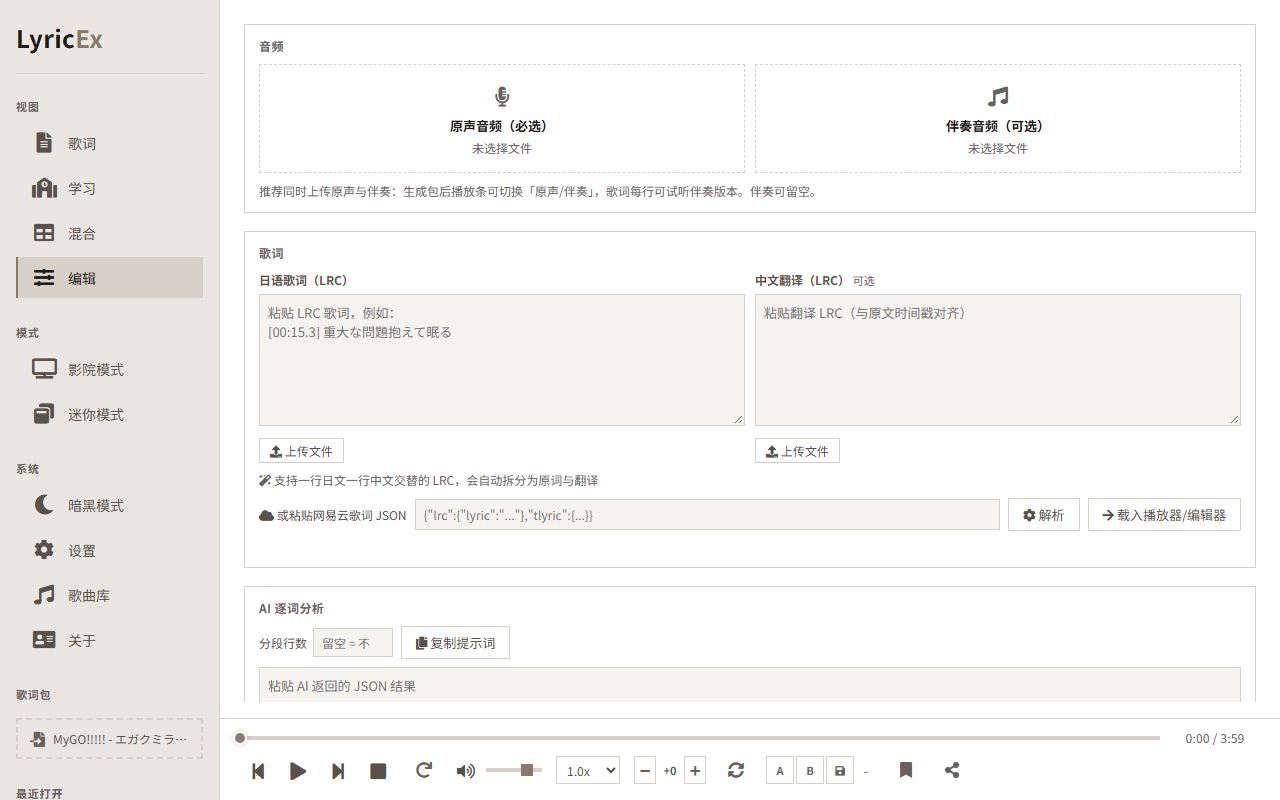
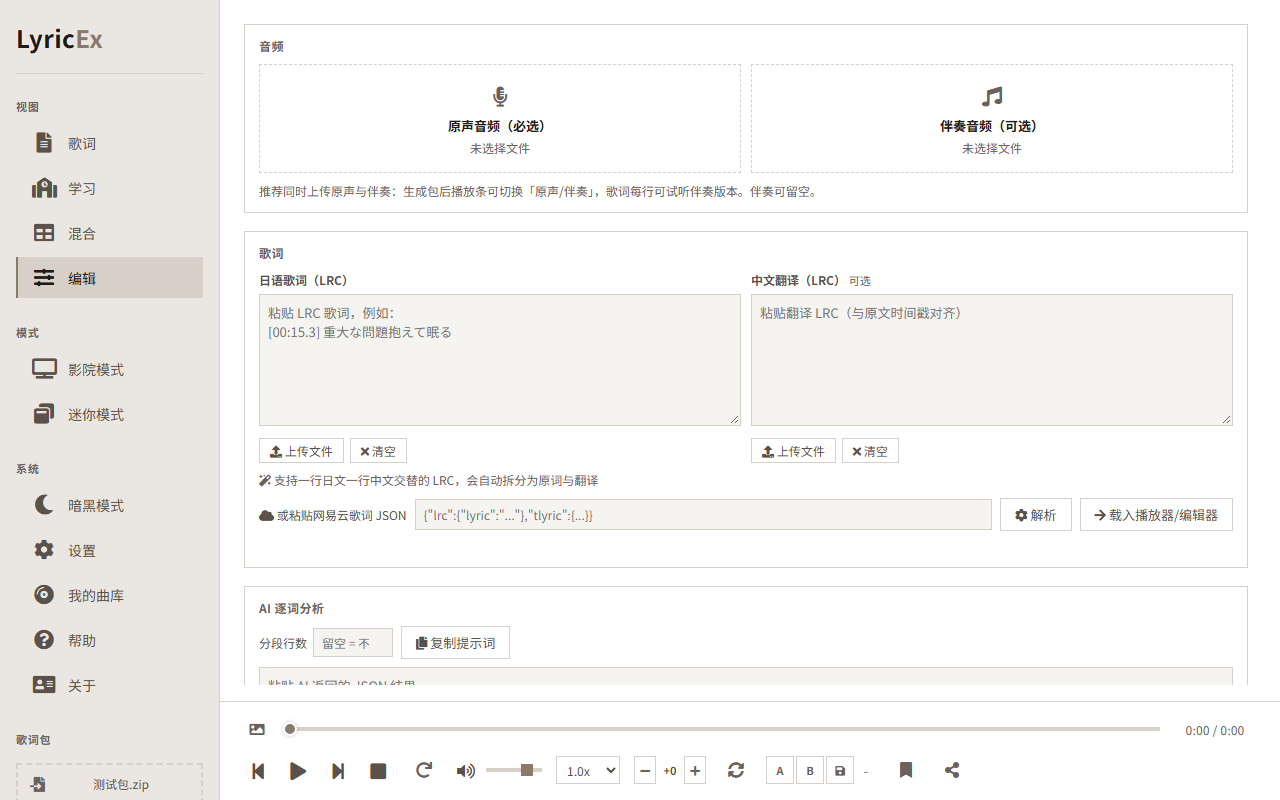
v3.0.0-alpha: finalize — version bump, changelog sync, help 'Song library' chapter (zh/ja/en), README x3 + library screenshot, FORMAT.md library-manifest contract, release-check pre-release suffix support

diff --git a/assets/scripts/help-content.js b/assets/scripts/help-content.js
@@ -17,7 +17,8 @@
     root.__lyricexHelpContent = {
         zh: {
             native: '简体中文',
-            titles: { quick: '快速上手', netease: '网易云歌词 JSON 获取', demo: '演示', faq: '常见问题', contribute: '提交问题与贡献', feedback: '反馈与支持' },
+            titles: { quick: '快速上手', library: '歌曲库', netease: '网易云歌词 JSON 获取', demo: '演示', faq: '常见问题', contribute: '提交问题与贡献', feedback: '反馈与支持' },
+            library: '<p>「歌曲库」是独立的本地曲库视图（侧边栏「我的曲库」），数据存于浏览器 IndexedDB，不上传。</p><h4>导入</h4><ol><li>点「添加文件夹」选择存放歌词包/音频的文件夹（支持 zip 歌词包与 mp3 / flac / m4a / ogg / wav）；</li><li>自动读取元数据：zip 包读 manifest / 旧 song.json / LRC，裸音频读 ID3 标签与封面；</li><li>重复导入自动跳过（按文件路径 + 大小、歌名 + 歌手去重）。</li></ol><h4>浏览与查找</h4><p>搜索框全文匹配（歌名 / 歌手 / 专辑 / 歌词）；「全部歌手 / 专辑 / 流派 / 年份 / 标签」下拉筛选；按歌名 / 歌手 / 时长 / 添加时间 / 播放次数排序；歌手、专辑 tab 聚合浏览。</p><h4>组织与收藏</h4><p>行内星标收藏；歌单 tab 新建 / 重命名 / 删除，行内「加入歌单」；最近播放与播放次数自动记录。</p><h4>播放</h4><p>点行内播放走主播放器：有歌词自动进歌词视图并卡拉 OK 高亮，无歌词仅播放音频。点「详情」查看元数据与歌词预览；「编辑」可改歌名 / 歌手 / 专辑 / 流派 / 年份 / 曲目 / 标签。</p><p class="help-tip">「示例包」按钮打开 GitHub 示例包弹窗（仅供学习交流，不支持添加）；自定义曲库请用「添加文件夹」导入自己存放的包。</p>',
             quick: '<ol><li><b>上传</b>：把 <code>.zip</code> 歌词包或 <code>.lrc</code> 拖到左侧「歌词包」区，或点「上传 .zip / .lrc」选择文件；也可从「歌曲库」加载示例包（仅供学习交流）。</li><li><b>建包</b>：编辑 → 制包 → 上传原声（必选）/ 伴奏（可选）→ 粘贴或上传 LRC（日文/中文交替自动拆分为原词+翻译）→ 可选粘贴网易云歌词 JSON 补翻译与逐字时间 → 可选 AI 逐词分析 → 导出包。</li><li><b>练唱</b>：歌词视图跟唱（逐字卡拉OK高亮、当前行下可显示翻译/罗马音副行），学习视图逐词表，混合视图两者同屏。</li><li><b>导出</b>：学习笔记（MD/HTML）、竖版海报、分享卡片、歌词视频（Chrome/Edge）、字幕（SRT/ASS）。</li></ol>',
             netease: '<p>制包页支持直接粘贴网易云歌词 JSON（含原词、翻译、逐字）。获取方法（详见 <code>docs/netease-lyrics-guide.md</code>）：</p><dl><dt>方法一 · 浏览器抓包（最稳）</dt><dd>打开网易云网页版歌曲页 → F12 → Network → 过滤 <code>lyric</code> → 点开 <code>song/lyric</code> 请求 → 复制响应 JSON。</dd><dt>方法二 · 命令行</dt><dd>接口 <code>https://music.163.com/api/song/lyric?id=&lt;歌曲ID&gt;&amp;lv=-1&amp;kv=-1&amp;tv=-1</code>，<b>必须</b>带 <code>User-Agent</code> 与 <code>Referer: https://music.163.com/</code>，否则返回 400。<br>curl：<code>curl.exe -H "User-Agent: Mozilla/5.0 …" -H "Referer: https://music.163.com/" "接口URL"</code><br>PowerShell：<code>Invoke-RestMethod -Headers @{ "User-Agent"="Mozilla/5.0 …"; "Referer"="https://music.163.com/" } -Uri "接口URL"</code></dd><dt>返回字段</dt><dd><code>lrc.lyric</code> 原词（标准/增强内联）、<code>tlyric.lyric</code> 翻译、<code>klyric.lyric</code> 逐字（YRC 语法，LyricEx 已支持导入并用于卡拉OK高亮）、部分歌曲新接口含 <code>yrc</code>。</dd></dl><p class="help-tip">把整个 JSON 粘到制包页「或粘贴网易云歌词JSON」框点解析即可：翻译自动配对，klyric 逐字时间自动附加到对应行。</p>',
             demo: '',
@@ -27,7 +28,8 @@
         },
         ja: {
             native: '日本語',
-            titles: { quick: 'クイックスタート', netease: 'NetEase 歌詞 JSON を取得', demo: 'デモ', faq: 'よくある質問', contribute: '問題報告と貢献', feedback: 'フィードバックとサポート' },
+            titles: { quick: 'クイックスタート', library: '曲ライブラリ', netease: 'NetEase 歌詞 JSON を取得', demo: 'デモ', faq: 'よくある質問', contribute: '問題報告と貢献', feedback: 'フィードバックとサポート' },
+            library: '<p>「曲ライブラリ」はローカルの曲ライブラリビュー（サイドバー「マイライブラリ」）。データはブラウザの IndexedDB に保存され、アップロードされません。</p><h4>インポート</h4><ol><li>「フォルダを追加」で歌詞パック / 音声を置いたフォルダを選択（zip 歌詞パックと mp3 / flac / m4a / ogg / wav）；</li><li>メタデータ自動読取：zip は manifest / 旧 song.json / LRC、裸音声は ID3 タグとカバー；</li><li>重複インポートは自動スキップ（ファイルパス + サイズ、曲名 + 歌手で重複判定）。</li></ol><h4>ブラウズと検索</h4><p>検索ボックスは全文一致（曲名 / 歌手 / 歌詞）；「すべてのアーティスト / アルバム / ジャンル / 年 / タグ」で絞り込み；曲名 / アーティスト / 再生時間 / 追加日 / 再生回数でソート；アーティスト・アルバムタブで集約表示。</p><h4>整理とお気に入り</h4><p>行のスターでお気に入り登録；プレイリストタブで作成 / リネーム / 削除、行内「プレイリストに追加」；最近再生と再生回数を自動記録。</p><h4>再生</h4><p>行の再生ボタンでメインプレイヤーへ：歌詞があれば自動で歌詞ビュー（カラオケハイライト）、なければ音声のみ。「詳細」でメタデータと歌詞プレビュー、「編集」で曲名 / アーティスト / アルバム / ジャンル / 年 / トラック / タグを変更。</p><p class="help-tip">「サンプルパック」ボタンは GitHub サンプルパック一覧（学習用のみ・追加不可）。自作ライブラリは「フォルダを追加」から。</p>',
             quick: '<ol><li><b>アップロード</b>：<code>.zip</code> 歌詞パックまたは <code>.lrc</code> を左側の「歌詞パック」エリアへドラッグ、または「.zip / .lrc をアップロード」でファイルを選択。「曲ライブラリ」からサンプルパックを読み込むこともできます（学習・デモ用のみ）。</li><li><b>パック作成</b>：エディター → ビルドタブ → ボーカル（必須）/ 伴奏（任意）を追加 → LRC を貼り付けまたはアップロード（日中交互は自動で原詞＋翻訳に分割）→ 必要に応じて NetEase 歌詞 JSON を貼り付け（翻訳・ワードタイミング補完）→ 任意で AI 単語分析 → パックを書き出し。</li><li><b>練習</b>：歌詞ビューでカラオケ（ワードごとハイライト、翻訳/ローマ字サブライン）、学習ビューで単語表、ミックスビューで両方同時表示。</li><li><b>書き出し</b>：学習ノート（MD/HTML）、縦型ポスター、共有カード、歌詞動画（Chrome/Edge）、字幕（SRT/ASS）。</li></ol>',
             netease: '<p>ビルドタブで NetEase 歌詞 JSON をそのまま貼り付け可能（原詞・翻訳・ワードタイミング）。取得方法（詳細は <code>docs/netease-lyrics-guide.md</code>）：</p><dl><dt>方法1 · ブラウザ開発者ツール（最も確実）</dt><dd>曲ページを開く → F12 → Network → <code>lyric</code> でフィルター → <code>song/lyric</code> リクエストを開く → レスポンス JSON をコピー。</dd><dt>方法2 · コマンドライン</dt><dd>エンドポイント <code>https://music.163.com/api/song/lyric?id=&lt;曲ID&gt;&amp;lv=-1&amp;kv=-1&amp;tv=-1</code>。ヘッダー <code>User-Agent</code> と <code>Referer: https://music.163.com/</code> が<b>必須</b>（無いと 400）。<br>curl：<code>curl.exe -H "User-Agent: Mozilla/5.0 …" -H "Referer: https://music.163.com/" "URL"</code><br>PowerShell：<code>Invoke-RestMethod -Headers @{ "User-Agent"="Mozilla/5.0 …"; "Referer"="https://music.163.com/" } -Uri "URL"</code></dd><dt>フィールド</dt><dd><code>lrc.lyric</code> 原詞（標準/拡張インライン）、<code>tlyric.lyric</code> 翻訳、<code>klyric.lyric</code> ワードレベル（YRC 構文、カラオケハイライト用に取り込み対応）、一部楽曲は新エンドポイントで <code>yrc</code>。</dd></dl><p class="help-tip">JSON 全体を「または NetEase 歌詞 JSON を貼り付け」に貼って解析ボタン——翻訳は自動ペアリング、klyric のワードタイミングは対応行に自動付加。</p>',
             demo: '',
@@ -37,7 +39,8 @@
         },
         en: {
             native: 'English',
-            titles: { quick: 'Quick start', netease: 'NetEase lyrics JSON', demo: 'Demo', faq: 'FAQ', contribute: 'Issues & Contributing', feedback: 'Feedback & Support' },
+            titles: { quick: 'Quick start', library: 'Song library', netease: 'NetEase lyrics JSON', demo: 'Demo', faq: 'FAQ', contribute: 'Issues & Contributing', feedback: 'Feedback & Support' },
+            library: '<p>The Song library is a standalone local-library view (sidebar "My Library"); data lives in the browser IndexedDB and is never uploaded.</p><h4>Import</h4><ol><li>Click "Add folder" and pick a folder holding lyric packs / audio (zip packs and mp3 / flac / m4a / ogg / wav);</li><li>Metadata is read automatically: zip packs via manifest / legacy song.json / LRC, bare audio via ID3 tags and embedded cover;</li><li>Duplicate imports are skipped (dedupe by file path + size and by title + artist).</li></ol><h4>Browse &amp; find</h4><p>The search box matches title / artist / album / lyrics; the "All artists / albums / genres / years / tags" dropdowns filter; sort by title / artist / duration / added / plays; the Artists and Albums tabs group tracks.</p><h4>Organize &amp; favorite</h4><p>Star a row to favorite; the Playlists tab creates / renames / deletes playlists and rows have "Add to playlist"; recent plays and play counts are recorded automatically.</p><h4>Play</h4><p>Row play uses the main player: songs with lyrics switch to the lyrics view with karaoke highlight, audio-only tracks just play. "Details" shows metadata and a lyric preview; "Edit" changes title / artist / album / genre / year / track / tags.</p><p class="help-tip">"Sample packs" opens the GitHub sample-pack modal (learning only — not importable); for your own library use "Add folder".</p>',
             quick: '<ol><li><b>Upload</b>: drag a <code>.zip</code> lyric pack or <code>.lrc</code> into the left "Lyrics pack" area, or click "Upload .zip / .lrc" to pick a file; sample packs can also be loaded from the Song library (learning/demo only).</li><li><b>Build</b>: Editor → Build tab → add vocal (required) / instrumental (optional) → paste or upload LRC (alternating JP/CN lines auto-split into original + translation) → optionally paste a NetEase lyrics JSON for translation and word timing → optionally AI word analysis → Export pack.</li><li><b>Practice</b>: Lyrics view for karaoke follow-along (per-word highlight, translation/romaji sub-line), Study view for the word table, Mixed view for both at once.</li><li><b>Export</b>: study notes (MD/HTML), vertical poster, share card, lyric video (Chrome/Edge), subtitles (SRT/ASS).</li></ol>',
             netease: '<p>The build tab accepts a NetEase lyrics JSON directly (original, translation, word timing). How to get one (full guide: <code>docs/netease-lyrics-guide.md</code>):</p><dl><dt>Method 1 · Browser devtools (most reliable)</dt><dd>Open the song page → F12 → Network → filter <code>lyric</code> → open the <code>song/lyric</code> request → copy the response JSON.</dd><dt>Method 2 · Command line</dt><dd>Endpoint <code>https://music.163.com/api/song/lyric?id=&lt;songId&gt;&amp;lv=-1&amp;kv=-1&amp;tv=-1</code> — a <code>User-Agent</code> and <code>Referer: https://music.163.com/</code> header are <b>required</b> (otherwise HTTP 400).<br>curl: <code>curl.exe -H "User-Agent: Mozilla/5.0 …" -H "Referer: https://music.163.com/" "URL"</code><br>PowerShell: <code>Invoke-RestMethod -Headers @{ "User-Agent"="Mozilla/5.0 …"; "Referer"="https://music.163.com/" } -Uri "URL"</code></dd><dt>Fields</dt><dd><code>lrc.lyric</code> original (standard / enhanced inline), <code>tlyric.lyric</code> translation, <code>klyric.lyric</code> word-level (YRC syntax, imported by LyricEx for karaoke highlight), some songs expose <code>yrc</code> on the newer endpoint.</dd></dl><p class="help-tip">Paste the whole JSON into "or paste NetEase lyrics JSON" and click parse — translations pair up automatically and klyric word times attach to the matching lines.</p>',
             demo: '',

diff --git a/assets/scripts/changelog.js b/assets/scripts/changelog.js
@@ -10,6 +10,25 @@
 
     root.__lyricexChangelog = [
         {
+            version: '3.0.0-alpha',
+            date: '待发布',
+            changes: [
+                { type: 'added', text: '本地歌曲库独立视图（侧边栏「我的曲库」）：IndexedDB 持久化（songs / playlists / meta），浏览器选文件夹递归导入 zip 歌词包与 mp3/flac/m4a/ogg/wav 音频' },
+                { type: 'added', text: '导入自动读元数据：zip 包走 manifest / 旧 song.json / LRC，裸音频解析 ID3v2 标签（歌名/歌手/专辑/流派/年份/曲目/内嵌封面）+ MP3 CBR 时长估算；按「路径+大小」与「歌名+歌手」双重去重' },
+                { type: 'added', text: '浏览与查找：歌名/歌手/专辑/歌词全文搜索；歌手/专辑/流派/年份/标签 5 个筛选；歌名/歌手/时长/添加时间/播放次数排序；滚动加载分页' },
+                { type: 'added', text: '组织与收藏：歌单创建/重命名/删除/打开/增删歌，收藏与取消收藏，最近播放，播放次数统计，标签编辑' },
+                { type: 'added', text: '展示：专辑封面（zip / ID3 内嵌）、歌曲详情页（元数据网格 + 歌词预览）、按歌手/专辑聚合 tab' },
+                { type: 'added', text: '曲库播放走主播放器：有歌词自动进歌词视图、侧栏状态同步、记录播放次数与最近播放' },
+                { type: 'added', text: '控制台日志系统（utils/log.js）：debug/info/warn/error 分级、模块前缀 + 时间戳、localStorage lyricex-log-level 开关，日志永不抛错' },
+                { type: 'fixed', text: '歌曲库详情返回后列表渲染中断：renderBody 对详情视图已替换掉的 #libStatus 元素写 textContent 抛空引用——判空保护' },
+                { type: 'fixed', text: '库视图布局不生效：CSS 类名 .view-library 与 JS 渲染的 .library-view 不一致——统一类名' },
+                { type: 'fixed', text: '库视图按钮全部无样式：全局 .close-btn 仅在弹窗 footer 作用域有样式，独立视图裸用无规则——按视图作用域补齐模态按钮外观' },
+                { type: 'changed', text: '侧边栏/抽屉「歌曲库」从弹窗升级为独立视图；示例包弹窗保留在视图内「示例包」按钮（GitHub 源不支持添加，仅查看/试听）' },
+                { type: 'test', text: '新增 tests/library-test.mjs（metadata 纯函数 32 断言）并入 run-tests 聚合器；e2e 新增库视图用例（fixture 目录导入/搜索/详情/播放）并适配 v2.9.3 多源用例；e2e 禁用 Service Worker 保证 manifest stub 可靠' },
+                { type: 'changed', text: '版本号 3.0.0-alpha（预发布，等待真机验收后再正式 3.0.0）' },
+            ]
+        },
+        {
             version: '2.9.3',
             date: '待发布',
             changes: [

diff --git a/assets/scripts/app.js b/assets/scripts/app.js
@@ -456,6 +456,7 @@
         const titles = block.titles || {};
         const sections = [
             { id: 'help-quick', title: titles.quick || 'Quick start', key: 'quick' },
+            { id: 'help-library', title: titles.library || 'Song library', key: 'library' },
             { id: 'help-netease', title: titles.netease || 'NetEase lyrics JSON', key: 'netease' },
             { id: 'help-demo', title: titles.demo || 'Demo', key: 'demo' },
             { id: 'help-faq', title: titles.faq || 'FAQ', key: 'faq' },
@@ -483,11 +484,12 @@
                 '<div class="help-content" id="helpContent" tabindex="0">' +
                     '<header class="help-head"><h2>' + t('help') + '</h2></header>' +
                     '<section class="help-card" id="help-quick"><h3>' + sections[0].title + '</h3>' + (block.quick || '') + '</section>' +
-                    '<section class="help-card" id="help-netease"><h3>' + sections[1].title + '</h3>' + (block.netease || '') + '</section>' +
-                    '<section class="help-card" id="help-demo"><h3>' + sections[2].title + '</h3><img class="help-demo" src="assets/images/demo.gif" alt="LyricEx demo" loading="lazy"></section>' +
-                    '<section class="help-card" id="help-faq"><h3>' + sections[3].title + '</h3>' + (block.faq || '') + '</section>' +
-                    '<section class="help-card" id="help-contribute"><h3>' + sections[4].title + '</h3>' + (block.contribute || '') + '</section>' +
-                    '<section class="help-card" id="help-feedback"><h3>' + sections[5].title + '</h3>' + (block.feedback || '') + '</section>' +
+                    '<section class="help-card" id="help-library"><h3>' + sections[1].title + '</h3>' + (block.library || '') + '</section>' +
+                    '<section class="help-card" id="help-netease"><h3>' + sections[2].title + '</h3>' + (block.netease || '') + '</section>' +
+                    '<section class="help-card" id="help-demo"><h3>' + sections[3].title + '</h3><img class="help-demo" src="assets/images/demo.gif" alt="LyricEx demo" loading="lazy"></section>' +
+                    '<section class="help-card" id="help-faq"><h3>' + sections[4].title + '</h3>' + (block.faq || '') + '</section>' +
+                    '<section class="help-card" id="help-contribute"><h3>' + sections[5].title + '</h3>' + (block.contribute || '') + '</section>' +
+                    '<section class="help-card" id="help-feedback"><h3>' + sections[6].title + '</h3>' + (block.feedback || '') + '</section>' +
                     '<p class="help-no-results" id="helpNoResults" hidden>' + t('helpNoResults') + '</p>' +
                     '<button class="help-top" id="helpTopBtn" hidden>' + t('helpBackToTop') + '</button>' +
                     '<nav class="help-pager">' +

diff --git a/index.html b/index.html
@@ -146,7 +146,7 @@
                     <section class="about-section brand-section" data-nav="navAboutOverview">
                         <span class="logo-icon"><i class="fas fa-music"></i></span>
                         <h2>Lyric<span>Ex</span></h2>
-                        <div class="version">v2.9.3 · 2026</div>
+                        <div class="version">v3.0.0-alpha · 2026</div>
                         <div class="slogan">歌词鉴赏工具 · 支持 .lrc / LyricEx 包 / 群友歌词包</div>
                         <!-- v2.5.1: h2 -> h3 so heading order steps by one (axe heading-order) -->
                         <h3 data-i18n="developer">开发者</h3>

diff --git a/sw.js b/sw.js
@@ -9,7 +9,7 @@
 // Bump this name whenever index.html or any precached asset changes: an
 // unchanged name would keep serving the stale cached document to clients that
 // have not refreshed since the deploy.
-const CACHE = 'lyricex-v2.9.3'; // v2.9.3: song library multi-source + translations — bump cache for re-fetch
+const CACHE = 'lyricex-v3.0.0-alpha'; // v3.0.0-alpha: local song library + logging system — bump cache for re-fetch // v2.9.3: song library multi-source + translations — bump cache for re-fetch
 
 // Core assets precached at install: a CACHE bump then serves the new
 // styles/scripts/zh locale on the very next refresh (no cache-warmup lag).

diff --git a/CHANGELOG.md b/CHANGELOG.md
@@ -1,5 +1,31 @@
 # Changelog
 
+## v3.0.0-alpha（待发布 · 歌曲库大改）
+
+> 侧边栏「歌曲库」升级为独立视图：本地导入 zip 歌词包与裸音频（自动读元数据 + 去重），搜索/筛选/排序/聚合浏览，收藏/最近/播放次数，歌单管理与详情页；新增控制台日志系统；版本进入 3.0.0-alpha 预发布。
+
+### Added
+- **本地歌曲库独立视图**：IndexedDB 持久化（songs / playlists / meta）；浏览器选文件夹递归导入 zip 歌词包与 mp3 / flac / m4a / ogg / wav 音频
+- **自动元数据**：zip 包走 manifest / 旧 song.json / LRC；裸音频解析 ID3v2（歌名/歌手/专辑/流派/年份/曲目/内嵌封面）+ MP3 CBR 时长估算；按「路径+大小」与「歌名+歌手」双重去重
+- **浏览与查找**：歌名/歌手/专辑/歌词全文搜索；歌手/专辑/流派/年份/标签 5 筛选；歌名/歌手/时长/添加时间/播放次数排序；滚动加载
+- **组织与收藏**：歌单创建/重命名/删除/打开/增删歌；收藏与取消收藏；最近播放；播放次数统计；标签编辑
+- **展示**：专辑封面、歌曲详情页（元数据网格 + 歌词预览）、按歌手/专辑聚合 tab
+- **曲库播放**：走主播放器，有歌词自动进歌词视图、侧栏状态同步、记录播放次数与最近播放
+- **控制台日志系统**（utils/log.js）：debug/info/warn/error 分级、模块前缀 + 时间戳、localStorage `lyricex-log-level` 开关，日志永不抛错
+
+### Fixed
+- **详情返回列表中断**：`renderBody` 对详情视图已替换掉的 `#libStatus` 写 `textContent` 抛空引用——判空保护
+- **库视图布局不生效**：CSS 类名 `.view-library` 与 JS 渲染的 `.library-view` 不一致——统一
+- **库视图按钮无样式**：全局 `.close-btn` 仅在弹窗 footer 作用域有规则，独立视图裸用无样式——按视图作用域补齐模态按钮外观
+
+### Changed
+- **「歌曲库」入口升级**：侧边栏/抽屉从弹窗改为独立视图；示例包弹窗保留在视图内「示例包」按钮（GitHub 源不支持添加，仅查看/试听）
+- **版本号**：3.0.0-alpha（预发布，真机验收通过后再正式 3.0.0）
+
+### Test
+- 新增 `tests/library-test.mjs`（metadata 纯函数 32 断言）并入 `run-tests` 聚合器
+- e2e 新增库视图用例（fixture 目录导入 / 搜索 / 详情 / 播放），v2.9.3 多源用例适配独立视图；e2e 禁用 Service Worker 保证 manifest stub 可靠
+
 ## v2.9.3（待发布 · 歌曲库多源）
 
 > 歌曲库行按钮「来源」错误翻译修正为「打开」（10 语言同步）；manifest 支持多源声明（sources[]），多于一个源时点「打开」弹出来源选择层；示例包三首旧包补全行中文翻译；包文件加载由 force-cache 改 no-store。

diff --git a/FORMAT.md b/FORMAT.md
@@ -151,3 +151,34 @@ song.json + 一个 .mp3
   偏移已烘焙进时间戳（`config.lyricOffset` 写 0，避免二次应用）
 - **导出 .lrc**：直接生成标准 LRC 文件
 - 即：群友包 → LyricEx 包 的转换 = 打开包 + （可选加伴奏/封面）+ 点一次导出
+
+## 5. 歌曲库目录 manifest（examples/manifest.json）
+
+「歌曲库 → 示例包」读取 `examples/manifest.json`（拉取走 `no-store`，更新后
+立即生效）。每首歌一个条目，字段全部可选；`file` 缺省时取 `sources[0]`：
+
+```json
+{
+  "notice": "整库说明，显示在弹窗底部",
+  "songs": [
+    {
+      "title": "歌曲标题",
+      "artist": "艺术家",
+      "file": "examples/xxx.zip",
+      "source": "来源/出处说明",
+      "copyright": "版权声明",
+      "sources": [
+        { "label": "源 A 显示名", "file": "examples/xxx.zip" },
+        { "label": "源 B 显示名", "file": "examples/yyy.zip" }
+      ]
+    }
+  ]
+}
+```
+
+- `sources`（v2.9.3+）：同一首歌可声明多个可加载来源（如不同版本/画质/编码）；
+  **多于 1 个源**时点「打开」弹出来源选择层，选定后加载对应包；单源/缺省仍
+  一键直开 `file`。
+- 该 manifest 仅描述「示例包」目录（GitHub 源），本地歌曲库（IndexedDB）导入
+  不读它：zip 包按 manifest / 旧 song.json / LRC 优先级解析，裸音频解析 ID3v2
+  标签，详见帮助页「歌曲库」章节。

diff --git a/README.zh-CN.md b/README.zh-CN.md
@@ -36,6 +36,10 @@ node scripts/serve.mjs
 |---|---|
 | ![混合视图](assets/images/shots/mixed.png) | ![编辑工作区](assets/images/shots/build.png) |
 
+| 歌曲库（本地曲库） |
+|---|
+| ![歌曲库](assets/images/shots/library.png) |
+
 ## 功能
 
 - **四种视图** — 歌词（跟唱）、学习（逐词表：罗马音 / 平假名 / 汉字 / 词性 / 释义）、混合（两者兼得）、编辑（时间轴 + 导出）。
